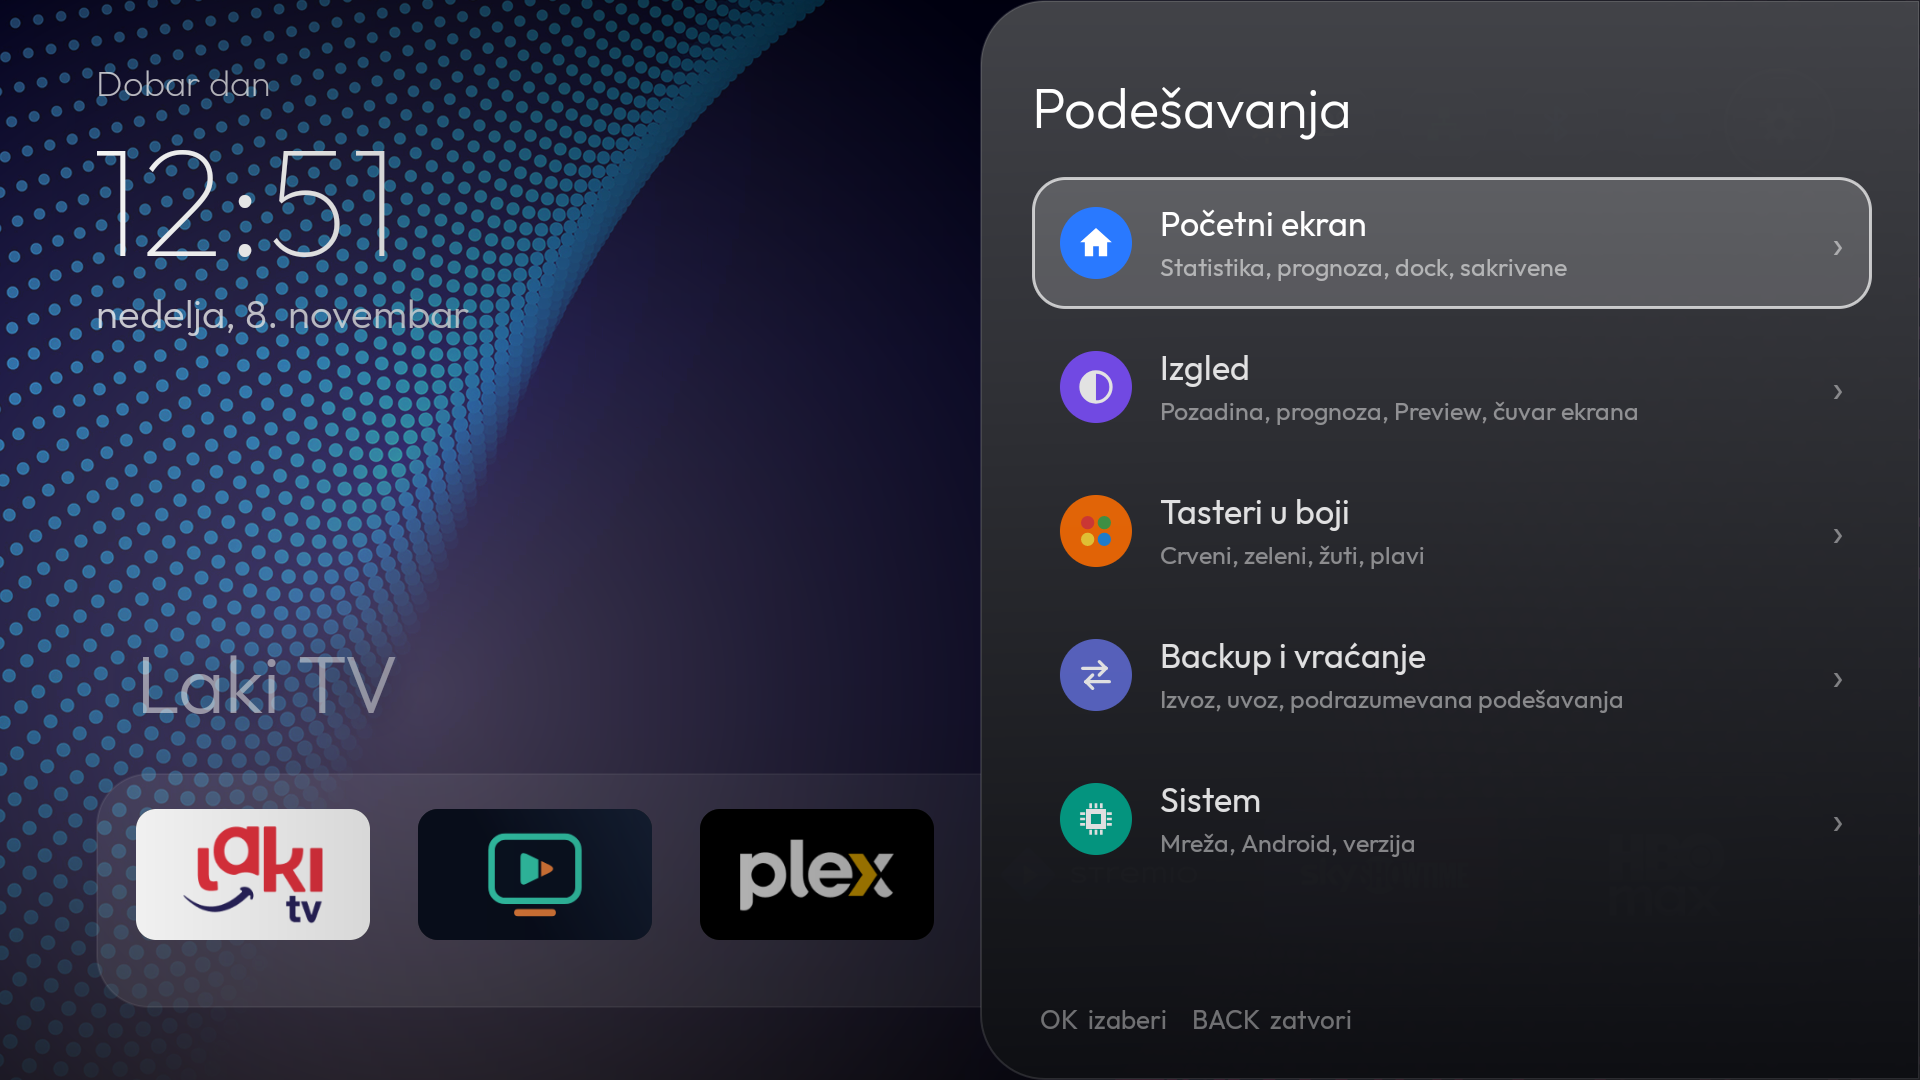
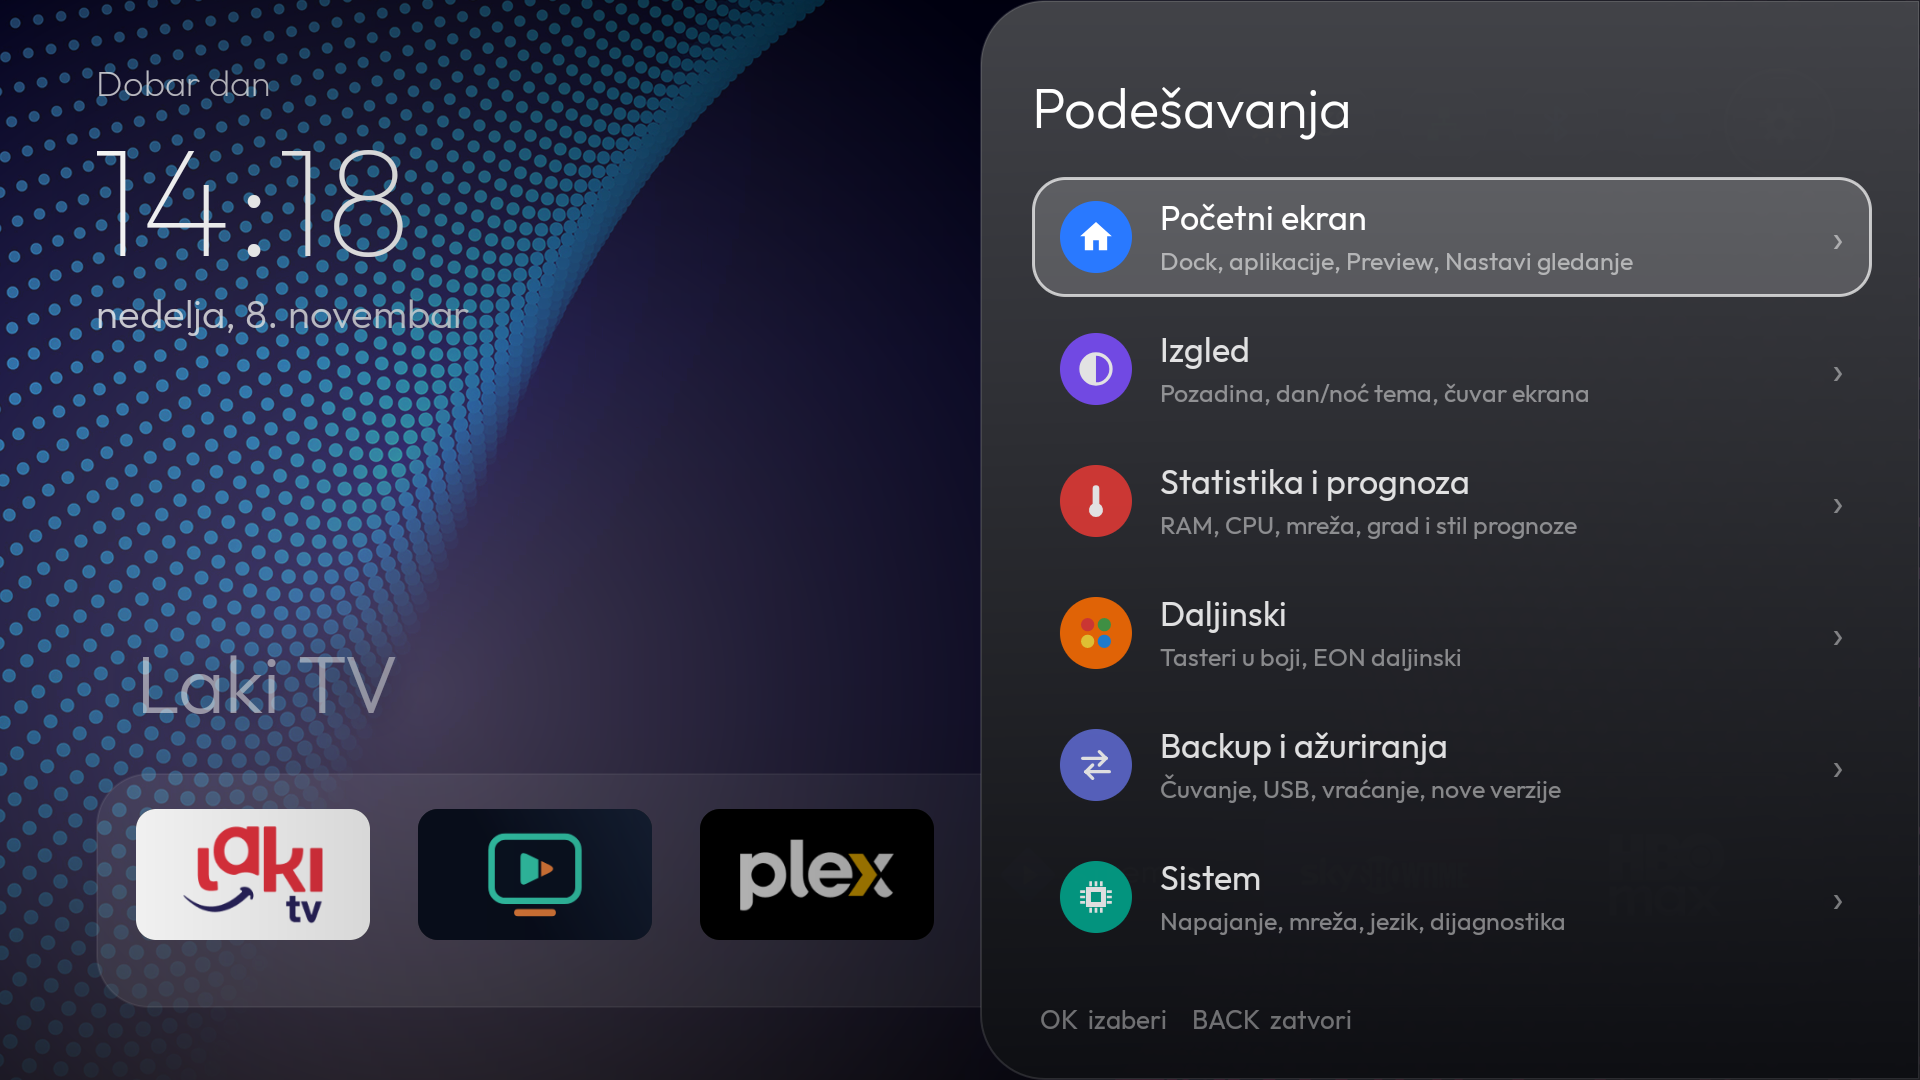
Describe the new settings layout and refresh screenshots

diff --git a/README.md b/README.md
@@ -53,13 +53,13 @@ A clean, Apple TV inspired home screen for Android TV boxes. No ads, no account,
 - Automatic daily backup when the configuration has changed, keeping the last 5, also copied to USB when one is inserted
 - Reset to defaults
 
-![Backup and restore](docs/backup.png)
+![Backup and updates](docs/backup.png)
 
 ### Look and feel
 - Solid and gradient themes, or your own wallpapers from `/sdcard/Pictures/Pozadine`
 - Automatic day and night themes with selectable hours; a manually chosen theme stays until the next change
 - Built-in screensaver with clock, weather and rotating wallpapers
-- Side panel menus with breadcrumbs, icons and switches
+- Side panel menus with sections, breadcrumbs, icons and switches
 
 ![Day and night theme](docs/daynight.png)
 
@@ -76,6 +76,19 @@ A clean, Apple TV inspired home screen for Android TV boxes. No ads, no account,
 - Configurable color keys and special remote keys (requires the companion service below)
 
 ![Diagnostics](docs/diagnostics.png)
+
+## Settings
+
+| Group | What you will find there |
+|---|---|
+| **Home screen** | Dock and app order, hidden apps, Preview, Continue watching |
+| **Appearance** | Wallpaper, day and night theme, title glow, greeting, screensaver |
+| **Stats and forecast** | Stats and how they look, network unit, forecast city and style |
+| **Remote** | Color keys, EON remote keys |
+| **Backup and updates** | Save to internal storage or USB, automatic backup, restore, updates |
+| **System** | Power, network, language, Android settings, diagnostics |
+
+Profiles have their own icon on the home screen, next to Settings.
 
 ## Installation
 

diff --git a/README.sr.md b/README.sr.md
@@ -53,13 +53,13 @@
 - Automatski dnevni backup kad ima izmena, čuva poslednjih 5 i kopira ih na USB ako je ubačen
 - Vraćanje na podrazumevana podešavanja
 
-![Backup i vraćanje](docs/backup.png)
+![Backup i ažuriranja](docs/backup.png)
 
 ### Izgled
 - Jednobojne i prelazne teme ili tvoje slike iz `/sdcard/Pictures/Pozadine`
 - Automatska dnevna i noćna tema, sa izborom sati; ručno izabrana tema važi do sledeće promene
 - Ugrađen čuvar ekrana sa satom, prognozom i smenom pozadina
-- Meniji u bočnom panelu, sa putanjom, ikonama i prekidačima
+- Meniji u bočnom panelu, sa sekcijama, putanjom, ikonama i prekidačima
 
 ![Dan/noć tema](docs/daynight.png)
 
@@ -76,6 +76,19 @@
 - Tasteri u boji i posebni tasteri daljinskog po izboru (traži prateći servis, vidi ispod)
 
 ![Dijagnostika](docs/diagnostics.png)
+
+## Podešavanja
+
+| Grupa | Šta je u njoj |
+|---|---|
+| **Početni ekran** | Dock i redosled aplikacija, sakrivene aplikacije, Preview, Nastavi gledanje |
+| **Izgled** | Pozadina, dnevna i noćna tema, sjaj naslova, pozdrav, čuvar ekrana |
+| **Statistika i prognoza** | Statistika i njen prikaz, jedinica mreže, grad i stil prognoze |
+| **Daljinski** | Tasteri u boji, tasteri EON daljinskog |
+| **Backup i ažuriranja** | Čuvanje u internu memoriju ili na USB, automatski backup, vraćanje, ažuriranja |
+| **Sistem** | Napajanje, mreža, jezik, Android podešavanja, dijagnostika |
+
+Profili imaju svoju ikonu na početnom ekranu, pored Podešavanja.
 
 ## Instalacija
 
